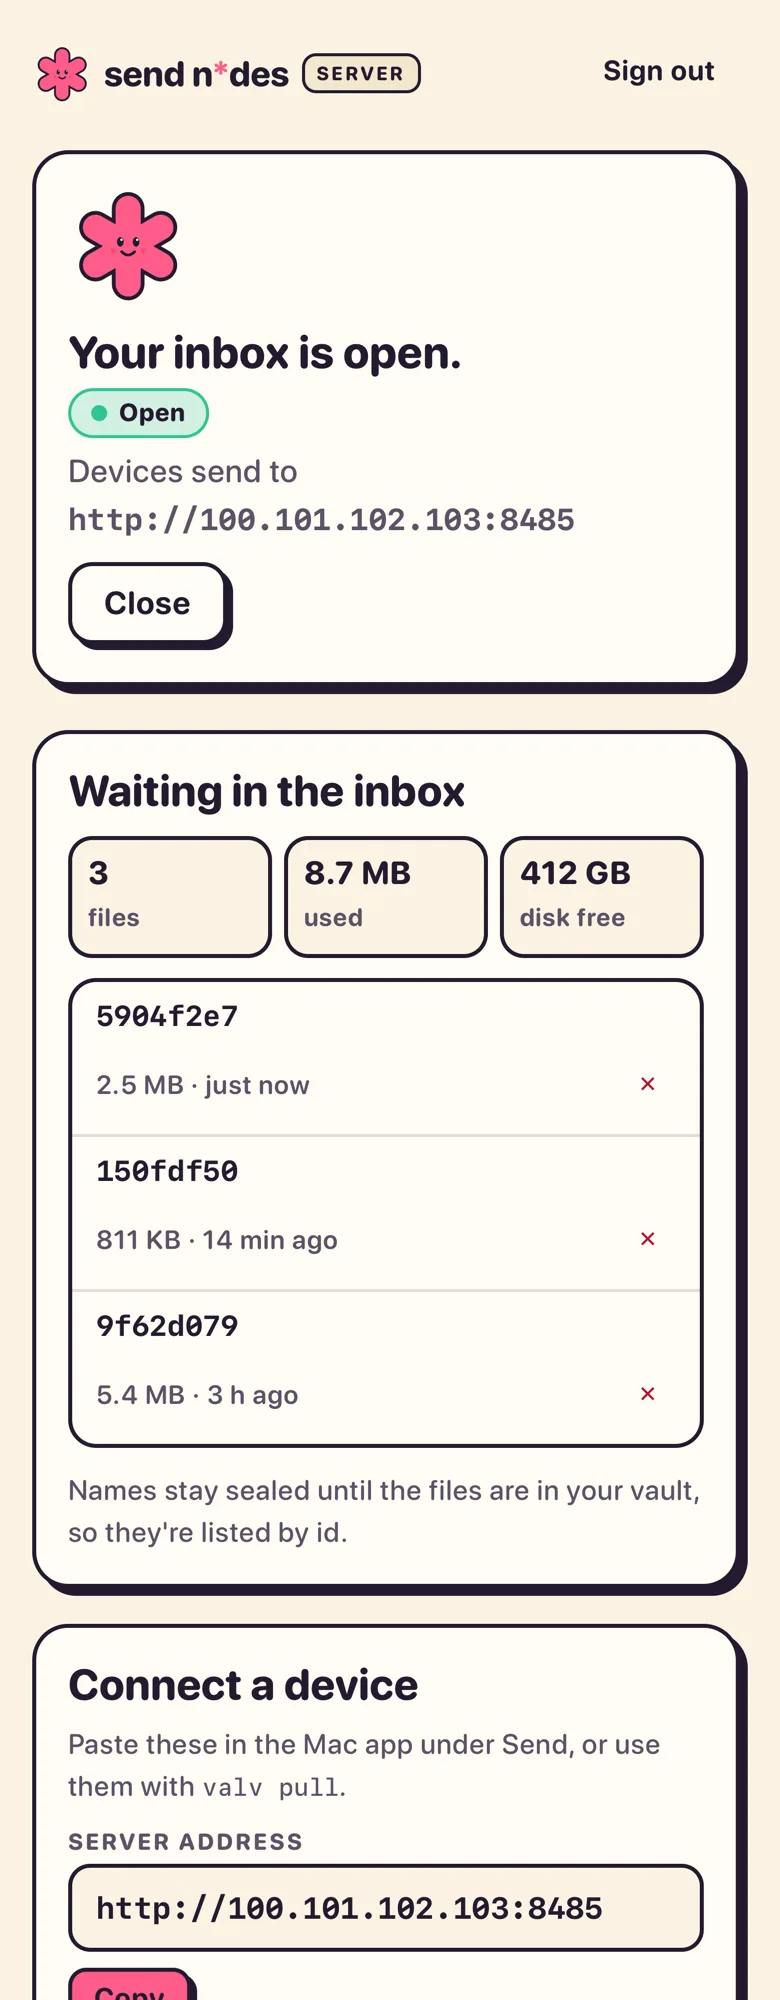
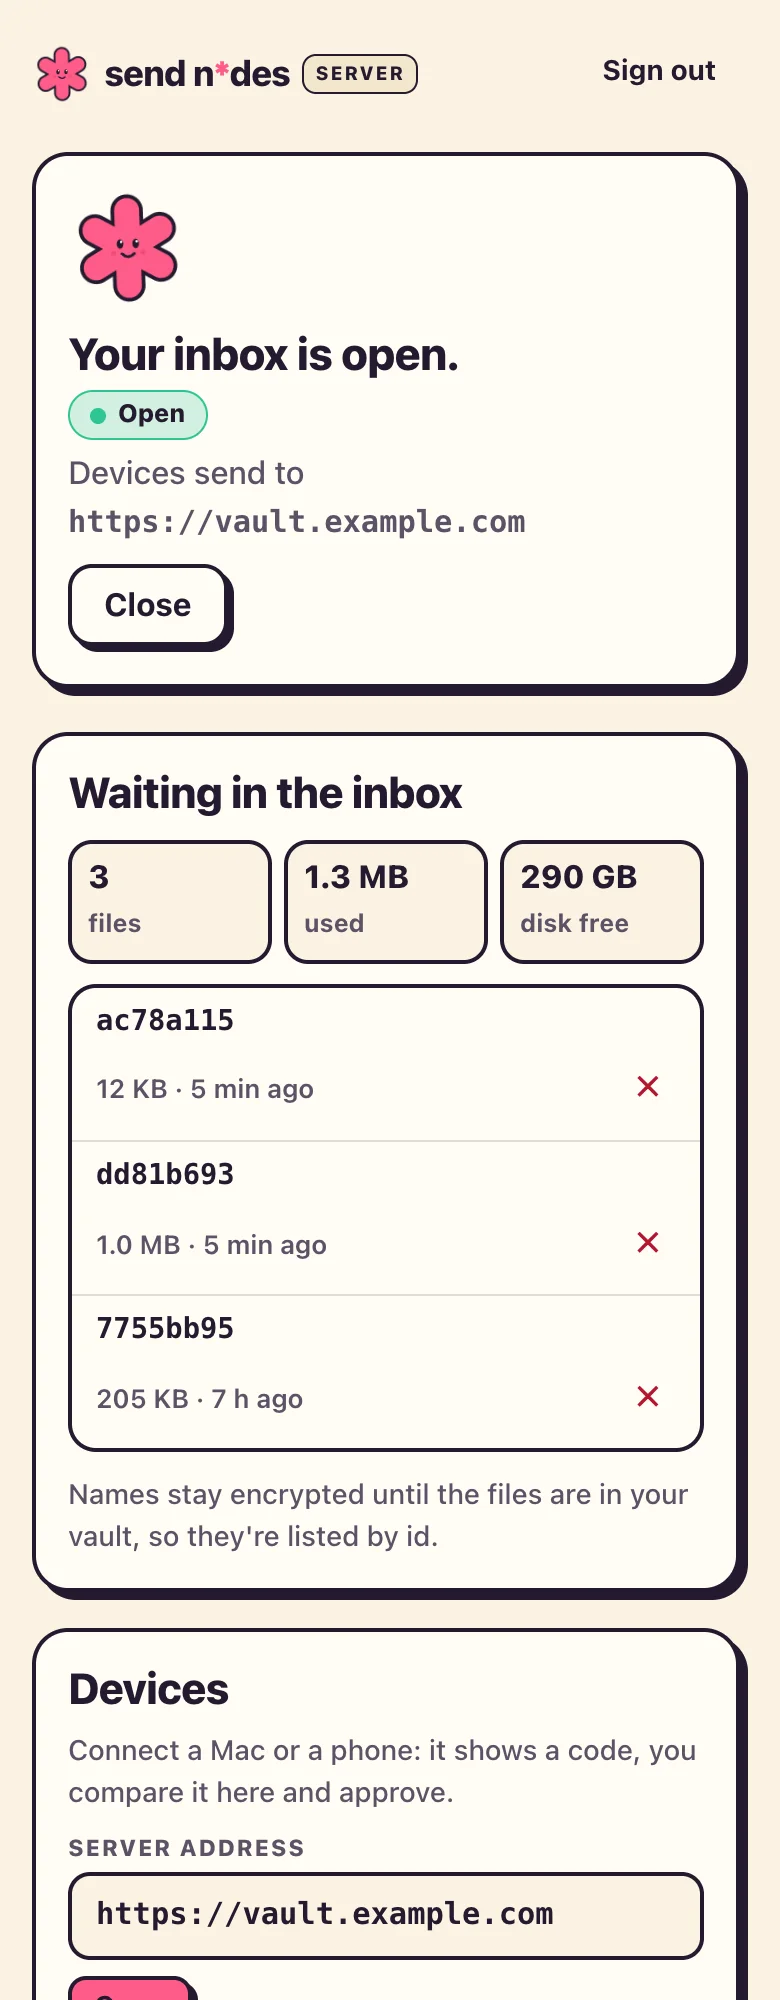
Fresh admin page screenshots for the site and README

diff --git a/docs/index.html b/docs/index.html
@@ -95,7 +95,7 @@
           <div class="leg-head"><span class="leg-ic grape"><svg><use href="#i-server"/></svg></span><h3>Your inbox only holds encrypted files.</h3></div>
           <p>Your Mac or iPhone locks each file before it leaves the device, using a key that can only lock, not unlock. The server stores the locked file and has nothing that could open it. Only your vault, on your Mac, can.</p>
           <p class="aside">Honest bit: only the older plain upload (scripts, curl) lets the server see a file in the clear while it encrypts it, and that route works only if you paste the vault's keys into the server yourself. Keep the sync port on Tailscale or behind HTTPS either way.</p>
-          <figure class="shot"><img src="screenshots/web-dashboard.webp" width="1600" height="1251" loading="lazy" alt="The ndesd admin page: inbox open, three encrypted files waiting, connection details"><figcaption>The server's admin page, shown with example data.</figcaption></figure>
+          <figure class="shot"><img src="screenshots/web-dashboard.webp" width="1600" height="1309" loading="lazy" alt="The ndesd admin page: inbox open, three encrypted files waiting, connection details and the Devices card"><figcaption>The server's admin page, shown with example data.</figcaption></figure>
         </article>
 
         <article class="leg" data-name="7755bb95…7e0f.obj" data-where="In your synced vault folder" data-server="no">
@@ -169,7 +169,7 @@
         </ul>
       </div>
       <div class="server-shots">
-        <img class="wide" src="screenshots/web-setup-reachability.webp" width="1600" height="1542" loading="lazy" alt="Setup step: choosing how your devices reach the server, with Tailscale recommended">
+        <img class="wide" src="screenshots/web-setup-reachability.webp" width="1600" height="1673" loading="lazy" alt="Setup step: choosing how your devices reach the server, with Tailscale recommended">
         <img class="phone" src="screenshots/web-phone.webp" width="780" height="2000" loading="lazy" alt="The server dashboard on a phone">
         <span class="example-note">Example data</span>
       </div>

diff --git a/README.md b/README.md
@@ -63,7 +63,7 @@ Runs on macOS and Linux (not Windows), plus iOS for the phone app. The format ha
     <td width="32%"><img src="docs/screenshots/web-phone.png" alt="The same dashboard on a phone, light mode"></td>
   </tr>
   <tr>
-    <td colspan="2"><img src="docs/screenshots/web-setup-reachability.png" alt="Guided setup step 2: choosing how devices reach the server"></td>
+    <td colspan="2"><img src="docs/screenshots/web-setup-reachability.png" alt="Guided setup step 1: choosing how devices reach the server"></td>
   </tr>
 </table>
 
